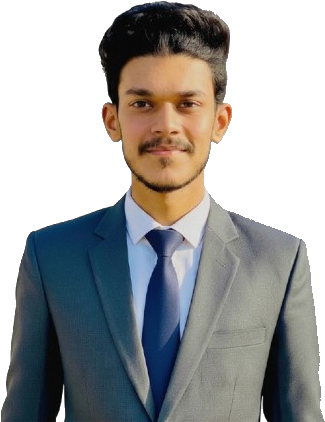
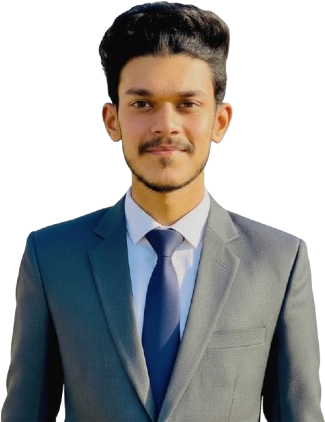
updated

Changed region(s): [[0.9846, 0.9242, 1.0, 1.0], [0.6769, 0.2156, 0.7077, 0.2464]]

diff --git a/src/sections/Hero.jsx b/src/sections/Hero.jsx
@@ -52,7 +52,7 @@ export default function Hero() {
       id="home"
       className="relative min-h-screen flex items-center pt-24 sm:pt-28 pb-12 sm:pb-16 overflow-hidden bg-[var(--bg)] transition-colors duration-200"
     >
-      <div className="relative max-w-6xl mx-auto px-6 md:px-8 w-full z-10 grid lg:grid-cols-12 gap-8 lg:gap-12 items-center">
+      <div className="relative max-w-6xl mx-auto px-4 sm:px-6 md:px-8 w-full z-10 grid lg:grid-cols-12 gap-8 lg:gap-12 items-center">
 
         {/* ── LEFT COLUMN: Text block ── */}
         <div className="lg:col-span-7 flex flex-col justify-center self-center py-4 sm:py-6 lg:py-8 z-20">
@@ -80,7 +80,7 @@ export default function Hero() {
             initial="hidden"
             animate="visible"
             custom={0.06}
-            className="text-4xl sm:text-5xl lg:text-[3.5rem] font-bold leading-[1.12] tracking-tight text-[var(--text)] mb-2.5 text-left"
+            className="text-3xl sm:text-5xl lg:text-[3.5rem] font-bold leading-[1.12] tracking-tight text-[var(--text)] mb-2.5 text-left"
           >
             Hamza Mughal
           </motion.h1>
@@ -91,7 +91,7 @@ export default function Hero() {
             initial="hidden"
             animate="visible"
             custom={0.10}
-            className="text-2xl sm:text-3xl font-semibold text-brand mb-6 text-left"
+            className="text-xl sm:text-3xl font-semibold text-brand mb-6 text-left min-h-[36px] flex items-center"
           >
             <TypingText />
           </motion.div>
@@ -102,7 +102,7 @@ export default function Hero() {
             initial="hidden"
             animate="visible"
             custom={0.14}
-            className="text-[var(--text-muted)] text-base sm:text-lg leading-relaxed mb-8 max-w-[500px] text-left"
+            className="text-[var(--text-muted)] text-sm sm:text-base lg:text-lg leading-relaxed mb-8 max-w-[500px] text-left"
           >
             I build scalable, high-performance web applications with React, Next.js, and Node.js.
           </motion.p>
@@ -121,7 +121,7 @@ export default function Hero() {
                 e.preventDefault()
                 document.getElementById('projects')?.scrollIntoView({ behavior: 'smooth' })
               }}
-              className="inline-flex items-center justify-center px-6 py-3 rounded-[6px]
+              className="inline-flex items-center justify-center px-5 sm:px-6 py-2.5 sm:py-3 rounded-[6px]
                 bg-brand hover:bg-brand-dark
                 text-white font-semibold text-sm active:scale-[0.98] transition-all shadow-sm focus:outline-none focus-visible:ring-2 focus-visible:ring-brand cursor-pointer"
             >
@@ -133,7 +133,7 @@ export default function Hero() {
                 e.preventDefault()
                 document.getElementById('contact')?.scrollIntoView({ behavior: 'smooth' })
               }}
-              className="inline-flex items-center justify-center px-6 py-3 rounded-[6px] border border-[var(--border)]
+              className="inline-flex items-center justify-center px-5 sm:px-6 py-2.5 sm:py-3 rounded-[6px] border border-[var(--border)]
                 text-[var(--text)] font-semibold text-sm hover:border-brand hover:text-brand hover:bg-[var(--surface-2)]
                 active:scale-[0.98] transition-all focus:outline-none focus-visible:ring-2 focus-visible:ring-brand cursor-pointer"
             >
@@ -143,32 +143,35 @@ export default function Hero() {
 
         </div>
 
-        {/* ── RIGHT COLUMN: Anchored Photo ── */}
+        {/* ── RIGHT COLUMN: Anchored Photo with Multi-Directional Feather Mask ── */}
         <motion.div
           variants={photoEntrance}
           initial="hidden"
           animate="visible"
-          className="lg:col-span-5 flex justify-center lg:justify-end self-center justify-self-end relative z-10 w-full"
+          className="lg:col-span-5 flex justify-center lg:justify-end self-center justify-self-end relative z-10 w-full mt-4 lg:mt-0"
         >
-          <div className="relative flex flex-col items-center lg:items-end w-full max-w-[320px] sm:max-w-[350px] lg:max-w-none lg:w-auto">
+          <div className="relative flex flex-col items-center lg:items-end w-full max-w-[280px] sm:max-w-[320px] lg:max-w-[360px] xl:max-w-[380px]">
 
             <div
-              className="relative z-[2] flex items-end justify-center lg:justify-end overflow-hidden"
+              className="relative z-[2] flex items-end justify-center lg:justify-end w-full overflow-hidden"
               style={{
-                WebkitMaskImage: 'linear-gradient(to bottom, black 84%, transparent 100%)',
-                maskImage: 'linear-gradient(to bottom, black 84%, transparent 100%)',
+                WebkitMaskImage: 'linear-gradient(to bottom, black 65%, transparent 100%), linear-gradient(to right, transparent 0%, black 8%, black 92%, transparent 100%)',
+                WebkitMaskComposite: 'source-in',
+                maskImage: 'linear-gradient(to bottom, black 65%, transparent 100%), linear-gradient(to right, transparent 0%, black 8%, black 92%, transparent 100%)',
+                maskComposite: 'intersect',
               }}
             >
               <img
                 src="/hamza-cutout.png"
                 alt="Hamza Mughal, Software Developer"
-                className="h-auto lg:h-[460px] xl:h-[480px] w-full lg:w-auto max-w-[300px] sm:max-w-[340px] lg:max-w-none object-contain object-bottom select-none"
+                className="h-auto max-h-[320px] sm:max-h-[360px] md:max-h-[400px] lg:max-h-[460px] xl:max-h-[480px] w-auto max-w-full object-contain object-bottom select-none"
                 loading="eager"
               />
 
+              {/* Bottom ground fade seamlessly blending into page background */}
               <div
                 aria-hidden="true"
-                className="absolute inset-x-0 bottom-0 h-16 bg-gradient-to-t from-[var(--bg)] via-[var(--bg)]/40 to-transparent pointer-events-none"
+                className="absolute inset-x-0 bottom-0 h-20 bg-gradient-to-t from-[var(--bg)] via-[var(--bg)]/60 to-transparent pointer-events-none"
               />
             </div>
 

diff --git a/src/sections/About.jsx b/src/sections/About.jsx
@@ -40,7 +40,7 @@ export default function About() {
 
   return (
     <section id="about" className="scroll-mt-[88px] py-16 md:py-20 lg:py-24 bg-[var(--bg)] border-t border-[var(--border)] transition-colors duration-200">
-      <div className="max-w-6xl mx-auto px-6 md:px-8">
+      <div className="max-w-6xl mx-auto px-4 sm:px-6 md:px-8">
 
         {/* ── Asymmetrical Editorial Layout: Header & Focus on Left, Narrative on Right ── */}
         <div className="grid grid-cols-1 lg:grid-cols-12 gap-8 lg:gap-14 items-start">

diff --git a/src/components/Navbar.jsx b/src/components/Navbar.jsx
@@ -74,7 +74,7 @@ export default function Navbar() {
   }
 
   return (
-    <header className="fixed top-4 left-1/2 -translate-x-1/2 z-50 w-full max-w-6xl px-6 md:px-8 pointer-events-auto">
+    <header className="fixed top-3 sm:top-4 left-1/2 -translate-x-1/2 z-50 w-full max-w-6xl px-4 sm:px-6 md:px-8 pointer-events-auto">
       <div
         className={`w-full h-16 px-4 sm:px-6 rounded-[8px] transition-all duration-300 flex items-center justify-between border ${
           scrolled

diff --git a/src/sections/Experience.jsx b/src/sections/Experience.jsx
@@ -38,7 +38,7 @@ function FadeIn({ children, delay = 0, className = '' }) {
 export default function Experience() {
   return (
     <section id="experience" className="scroll-mt-[88px] py-16 md:py-20 lg:py-24 bg-[var(--bg)] border-t border-[var(--border)] transition-colors duration-200">
-      <div className="max-w-6xl mx-auto px-6 md:px-8">
+      <div className="max-w-6xl mx-auto px-4 sm:px-6 md:px-8">
 
         {/* Section Header */}
         <FadeIn>

diff --git a/src/sections/Projects.jsx b/src/sections/Projects.jsx
@@ -201,7 +201,7 @@ function ProjectCard({ project, index }) {
 export default function Projects() {
   return (
     <section id="projects" className="scroll-mt-[88px] py-16 md:py-20 lg:py-24 bg-[var(--bg)] border-t border-[var(--border)] transition-colors duration-200">
-      <div className="max-w-6xl mx-auto px-6 md:px-8">
+      <div className="max-w-6xl mx-auto px-4 sm:px-6 md:px-8">
         <FadeIn>
           <SectionHeader
             label="WORK"

diff --git a/src/sections/Contact.jsx b/src/sections/Contact.jsx
@@ -320,7 +320,7 @@ function ContactForm() {
 export default function Contact() {
   return (
     <section id="contact" className="scroll-mt-[88px] py-16 md:py-20 lg:py-24 bg-[var(--bg)] border-t border-[var(--border)] transition-colors duration-200">
-      <div className="max-w-6xl mx-auto px-6 md:px-8">
+      <div className="max-w-6xl mx-auto px-4 sm:px-6 md:px-8">
 
         {/* Header */}
         <FadeIn>

diff --git a/src/sections/Skills.jsx b/src/sections/Skills.jsx
@@ -69,7 +69,7 @@ export default function Skills() {
 
   return (
     <section id="skills" className="scroll-mt-[88px] py-16 md:py-20 lg:py-24 bg-[var(--bg)] border-t border-[var(--border)] transition-colors duration-200">
-      <div className="max-w-6xl mx-auto px-6 md:px-8">
+      <div className="max-w-6xl mx-auto px-4 sm:px-6 md:px-8">
         <FadeIn>
           <SectionHeader
             label="SKILLS"

diff --git a/src/sections/Services.jsx b/src/sections/Services.jsx
@@ -104,7 +104,7 @@ export default function Services() {
 
   return (
     <section id="services" className="scroll-mt-[88px] py-16 md:py-20 lg:py-24 bg-[var(--bg)] border-t border-[var(--border)] transition-colors duration-200">
-      <div className="max-w-6xl mx-auto px-6 md:px-8">
+      <div className="max-w-6xl mx-auto px-4 sm:px-6 md:px-8">
 
         <FadeIn>
           <SectionHeader

diff --git a/PORTFOLIO_AUDIT_REPORT.md b/PORTFOLIO_AUDIT_REPORT.md
@@ -119,14 +119,14 @@
   * Graphic: 20px x 32px pill border in `#FF5A00`/50 with animated bouncing dot in `#FF5A00`
 
 #### Exact Image & Treatment:
-* **Image Path**: `/hamza-cutout.png` (stored in `public/hamza-cutout.png`)
+* **Image Path**: `/hamza-cutout.png` (stored in `public/hamza-cutout.png`, restored with natural smooth anti-aliased alpha edges)
 * **Alt**: `"Hamza Mughal, Software Developer"`
-* **Dimensions**: Mobile/Tablet width `max-w-[300px] sm:max-w-[340px]`, Desktop height `460px` (xl: `480px`), width `auto`, `object-contain object-bottom`
-* **Masking & Blending**:
-  * Pure transparent cutout with **no background box**
-  * Top and torso 100% crisp and clear
-  * Bottom 16% smoothly feathered via CSS mask: `linear-gradient(to bottom, black 84%, transparent 100%)`
-  * Secondary ground vignette: `from-[var(--bg)] via-[var(--bg)]/40 to-transparent` (height `64px`)
+* **Dimensions (Fluid Responsive)**: Mobile `max-h-[320px]`, Tablet `max-h-[360px] md:max-h-[400px]`, Desktop `lg:max-h-[460px] xl:max-h-[480px]`, width `auto`, `object-contain object-bottom`
+* **Multi-Directional Feather Mask**:
+  * Clean, natural head and torso (100% sharp)
+  * Left & Right Edge Feathering: `linear-gradient(to right, transparent 0%, black 8%, black 92%, transparent 100%)` (eliminates all sharp cut edges on the sides)
+  * Bottom Vertical Feathering: `linear-gradient(to bottom, black 65%, transparent 100%)`
+  * Secondary ground vignette: `from-[var(--bg)] via-[var(--bg)]/60 to-transparent` (height `80px`) seamlessly dissolving into the page background.
 
 ---
 
